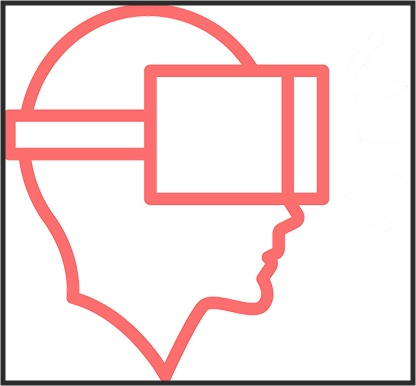
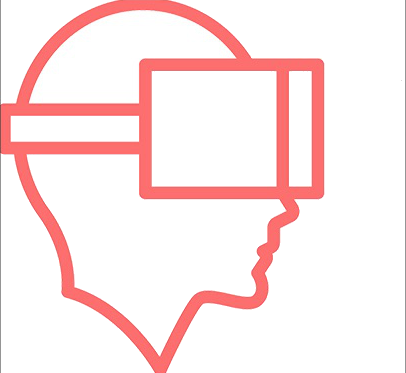
panel2 added

Changed region(s): [[0.0, 0.0, 1.0, 1.0], [0.3547, 0.5308, 0.3842, 0.5603]]

diff --git a/src/components/Panel2/Panel2.jsx b/src/components/Panel2/Panel2.jsx
@@ -1,0 +1,27 @@
+import React, { Component } from 'react';
+import './Panel2.css';
+
+import headset from '../../assets/vrHeadset.png';
+import globe from '../../assets/vrGlobe.png';
+import line from '../../assets/line.png';
+
+class Panel2 extends Component {
+  render() {
+    return (
+      <div className="Panel2">
+        <div className="vrText">
+          <span>vr</span>
+          <span id="plus">+</span>
+          <span>ar</span>
+        </div>
+        <div className="headsetContainer">
+          <img className="headset" src={headset} alt="" />
+          <img id="line" src={line} alt="" />
+        </div>
+        <img src={globe} alt="" />
+      </div>
+    );
+  }
+}
+
+export default Panel2;

diff --git a/src/components/Panel2/Panel2.css b/src/components/Panel2/Panel2.css
@@ -1,0 +1,47 @@
+.Panel2 {
+  display: flex;
+  justify-content: space-around;
+  align-items: center;
+  background-color: #2a2b2a;
+  width: 100%;
+  height: 70vh;
+}
+
+.vrText {
+  display: flex;
+  flex-direction: column;
+  align-items: center;
+  font-size: 70px;
+  margin-left: 5%;
+}
+
+.vrText span {
+  color: #e9eae9;
+}
+
+.Panel2 img {
+  width: 250px;
+  height: 250px;
+}
+
+.headset {
+  margin: 0 0 -2% 21%;
+}
+
+.headsetContainer {
+  display: flex;
+  justify-content: center;
+  flex-direction: column;
+  align-items: center;
+  margin: 10% 0 0 10%;
+  height: 100%;
+}
+
+#plus {
+  color: #c45a59;
+}
+
+#line {
+  width: 6px;
+  height: 140px;
+}

diff --git a/src/components/Header/Header.jsx b/src/components/Header/Header.jsx
@@ -1,7 +1,6 @@
 import React, { Component } from 'react';
-import Logo from '../../Assets/engagitechLogo.png';
-import styles from './Header.css'
-
+import Logo from '../../assets/engagitechLogo.png';
+import styles from './Header.css';
 
 class Header extends Component {
   render() {
@@ -10,7 +9,7 @@ class Header extends Component {
         <img src={Logo} className="engagitechLogo" alt="Engagitech Logo" />
         <div className="buttonDiv">
           <h3>What we offer</h3>
-          <i class="fa fa-angle-down bounce" aria-hidden="true"></i>
+          <i class="fa fa-angle-down bounce" aria-hidden="true" />
         </div>
       </div>
     );

diff --git a/src/components/Header/Header.css b/src/components/Header/Header.css
@@ -1,5 +1,5 @@
 .Header {
-  background-image: url('../../Assets/spaceHeader.png');
+  background-image: url('../../assets/spaceHeader.png');
   background-attachment: fixed;
   background-position: center;
   background-repeat: no-repeat;
@@ -9,7 +9,6 @@
   flex-direction: column;
   align-items: center;
   justify-content: center;
-
 }
 
 .buttonDiv {
@@ -27,7 +26,7 @@
 }
 
 .Header h3 {
-  margin: .8em;
+  margin: 0.8em;
   color: #ffffff;
   font-size: 1.5em;
 }

diff --git a/src/components/Index/Index.jsx b/src/components/Index/Index.jsx
@@ -1,11 +1,15 @@
-import React, { Component } from 'react'
-import Header from '../Header/Header'
+import React, { Component } from 'react';
+import Header from '../Header/Header';
+import Panel2 from '../Panel2/Panel2';
 
 class Index extends Component {
-  render () {
-    return <div className='Index'>
-      <Header />
-    </div>
+  render() {
+    return (
+      <div className="Index">
+        <Header />
+        <Panel2 />
+      </div>
+    );
   }
 }
 
